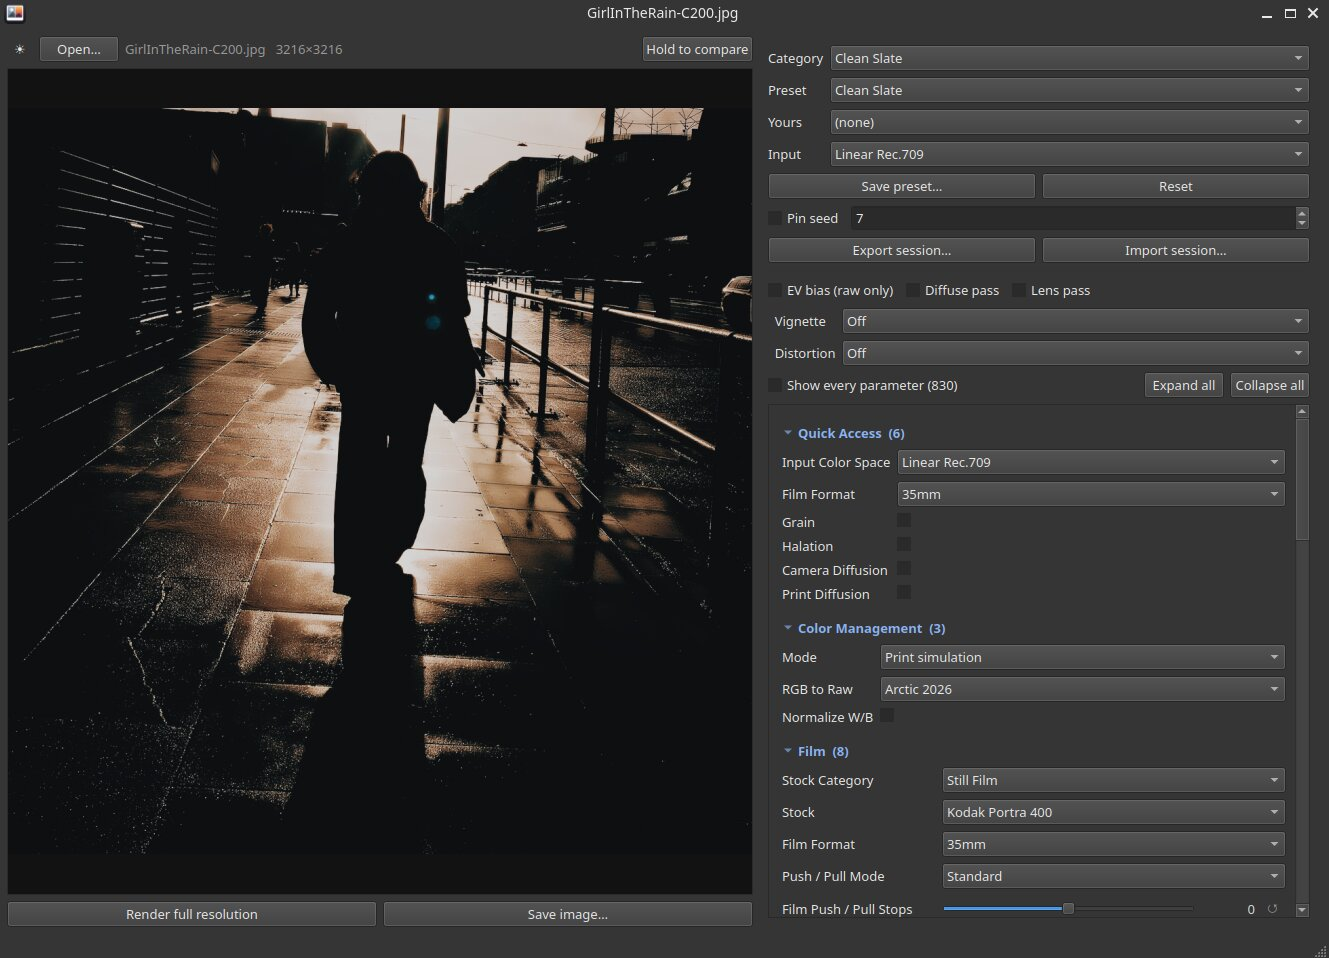
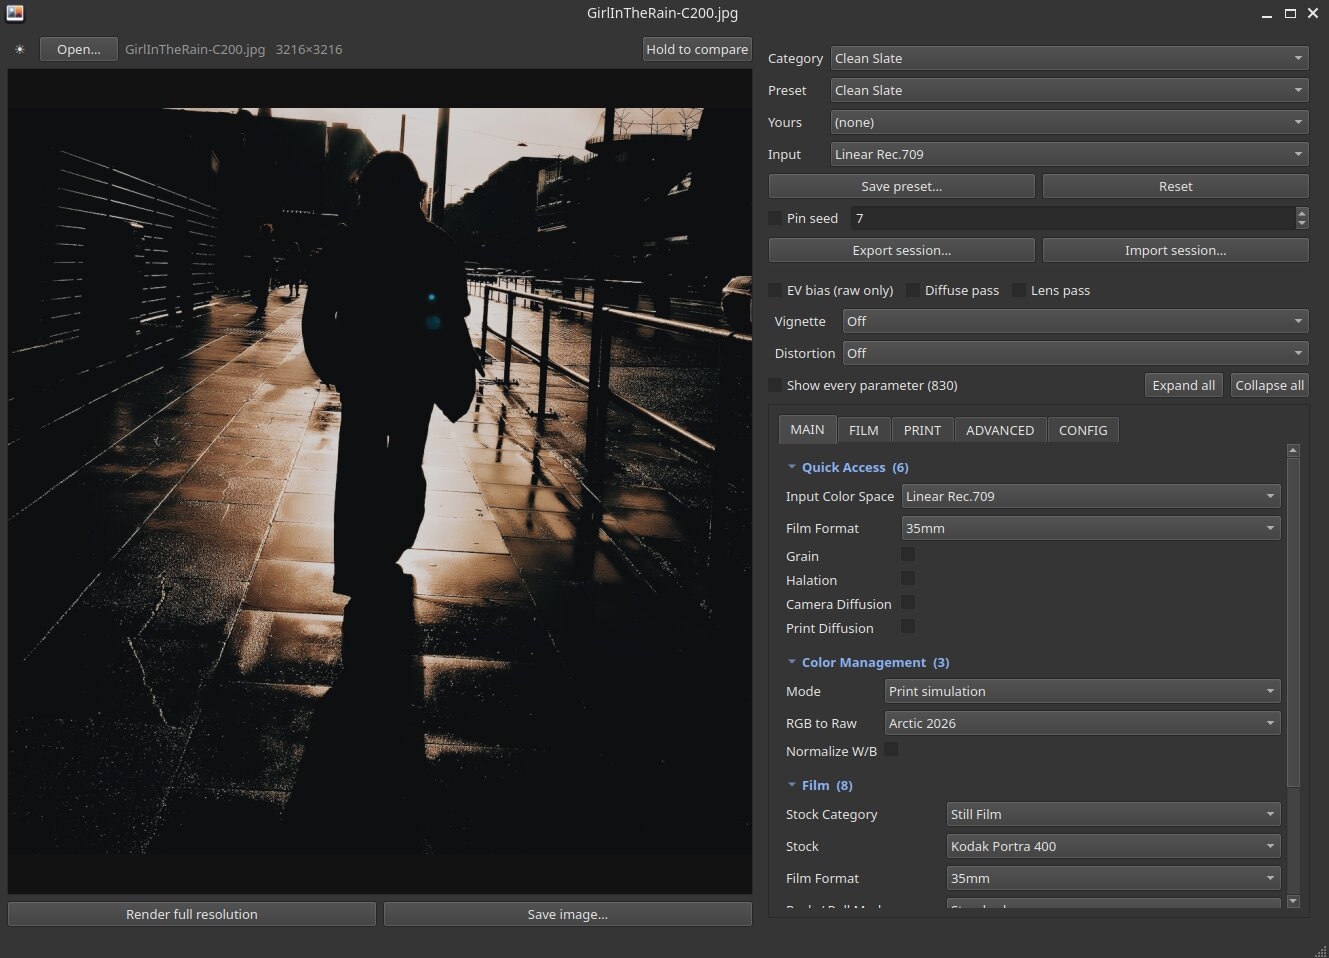
Update the shipped screenshot to show the tabs
The README still showed the single scrolling column, which stopped
being the layout several commits ago.  Same 1329x958 frame, converted
to a 156 KB JPEG from the 661 KB original, and the caption now points
at the tabs and at EV bias being greyed out and labelled "raw only"
because the open file is a JPEG.

Changed region(s): [[0.5862, 0.4238, 0.9872, 0.9687], [0.7096, 0.7871, 0.9872, 0.9687]]

diff --git a/README.md b/README.md
@@ -121,9 +121,10 @@ Each is tried directly and with a `Plugins/` subdirectory. Check which one won w
 
 ## The GUI
 
-The photograph is on the left with the controls on the right: preset at the top, then the
-extra passes, then the parameter groups. Here **EV bias** is greyed out because the open
-file is a JPEG — it only applies to raw.
+The photograph is on the left, the controls on the right: preset at the top, then the
+extra passes, then the five tabs. Two details visible above — **EV bias** is greyed out
+and labelled *raw only*, because the open file is a JPEG; and each group header carries
+its parameter count.
 
 ```sh
 ./spektra-gui                       # empty, then Open…
